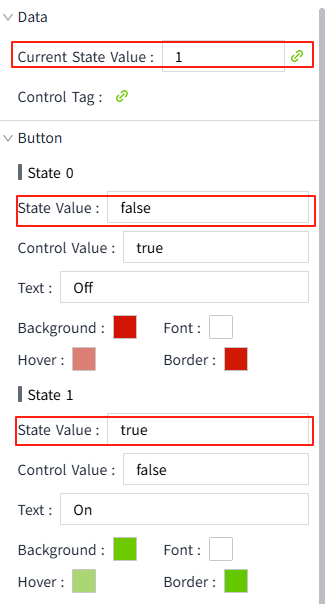
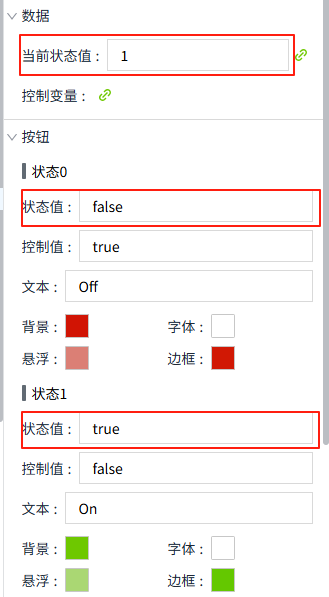
1

diff --git a/docs/2d-visualization/controls/button/2-state-button.md b/docs/2d-visualization/controls/button/2-state-button.md
@@ -1,45 +1,44 @@
 # 2-State Button
 
-The 2-State Button is a type of button control with two distinct states. Common states include on/off, start/stop, etc. Each state can be configured with its own appearance style (color, text, etc.). Users can clearly understand the current state by the appearance of the button.
+2-State Button 是一种带有两种明确状态的按钮控件，常见的状态是开/关、启动/停止等。可以为每个状态配置独立的外观样式（颜色、文字等），用户通过按钮的外观就能清晰地知道当前状态。
 
 ![alt text](33.png)
 
-**Properties**
+**属性**
 
-| **Name**  | **Description**  |
-|---------|-----------|
-| Name  | The name of this control.  |
-| X  | The distance between the left side of the control and the left side of the canvas. |
-| Y   | The distance between the top of the control and the top of the canvas. |
-| W  | The width of the control.  |
-| H  | The height of the control.  |
-| ![alt text](32.png) | The rounded corner curvature of the control.  |
-| Current State Value  | Match this value with the two status values under the "Button" category. Based on the matching result, display the appearance of the corresponding button. <br>![alt text](34.png) |
-| Control Value   | Bind to a property to control the state of the control. When the button is pressed, the control value corresponding to the current state will be written into the bound property. Usually, the current state value and the control value will be bound to the same property.    |
-| Button | Set the appearance style of the control when it is in different state values. It includes two states: State 0 and State 1.  <br>- **State Value**: Used in conjunction with "Data" -> "Current State Value". The current state value corresponds to which state value of the button, and then the appearance of that state is displayed. <br>- **Control value**: Used in conjunction with "Data" -> "Control Value". When the button is pressed in the current state, the corresponding control value will be written into the property bound to "Data" -> "Control Value". <br>- **Text**: The text content displayed by the control in the corresponding state. <br>- **Background**: The backhground color of the control in the corresponding state. <br>- **Font**: The font color of the control in the corresponding state. <br>- **Hover**: The hover color of the control in the corresponding state. <br>- **Border**: The border color of the control in the corresponding state. |
-| Border | Set the border width.  |
-|  | Set the font for text content. Including font type, font size, font color, bold, italic, underline, horizontal alignment, and vertical alignment.   |
+| **名称** | **描述** |
+|:----------|:----------------|
+| 名字  | 此控件的名称。 |
+| X  | 控件左侧距画布左侧的距离，单位px。|
+| Y  | 控件顶部距画布顶部的距离，单位px。   |
+| W   | 控件的宽度，单位px。 |
+| H  | 控件的高度，单位px。  |
+| ![alt text](32.png) | 控件的圆角曲率。   |
+| 当前状态值 | 将该值去和"按钮"分类下的2个状态值进行匹配，根据匹配到的结果，显示对应状态的按钮外观。  ![alt text](34.png)   |
+| 控制值   | 绑定到一个控制状态的属性。当按钮被按下时，当前状态对应的控制值会被写入绑定的属性中。通常情况下，当前状态值和控制值会绑定同一属性。  |
+| 按钮  | 设置控件在不同状态值时的外观样式。包含2个状态：状态0，状态1。  <br>**- 状态值**：和”数据“->“当前状态值”搭配使用。当前状态值等于按钮的哪个状态值，则显示该状态的外观。 <br>- **控制值**：和”数据“->“控制值”搭配使用。在当前状态下按下按钮时，会将对应的控制值写入到”数据“->“控制值”绑定的属性中。 <br>- **文本**：控件在对应状态下显示的文本内容。   <br>- **背景**：控件在对应状态下的背景色。  <br>- **字体**：控件在对应状态下的字体颜色。   <br>- **悬浮**：控件在对应状态下的悬浮色。  <br>- **边框**：控件在对应状态下的边框色。 |
+| 边框 | 设置控件的边框粗细。|
+| 字体| 设置文本内容的字体。包括字体型号、字体大小、粗体、倾斜、水平对齐方式、垂直对齐方式。|
 
-**Event**
+**动作**
 
-Allows you to perform specific events based on certain conditions. See the full description of each event on the **2D Visualization-> Event** page.
+允许您基于某种条件执行特定的动作。请参阅“[动作](../../event/index.md)”页上各种动作的完整描述。
 
-**Example**
+**示例**
 
-The fan can be turned on or off by using the 2-State button control.
+可通过 2-State button 控件开启或关闭风机。
 
-1. Add a 2-State button control to the page.
-2. The current state value is bound to a boolean tag: "Demo:status"
-3. The control value is also bound to the tag: "Demo:status"
-4. The button properties are as follows:
+1. 在画面上添加一个 2-State button 控件
+2. 当前状态值绑定到一个布尔型变量：“Demo:status”
+3. 控制值也绑定到变量：“Demo:status”
+4. 按钮属性如下：
 
-| **State**       | **Property** |
-|-----------------|------------------|
-| **State** **0** |  <br>- **State Value**: false <br>- **Control Value**: true <br>- **Text**: Off <br>- **Background**: d11404 <br>-**Font**: ffffff  <br>- **Hover**: db7f75  <br>- **Border**: d11804 |
-| **State** **1** |  <br>- **State Value**: true  <br>- **Control Value**: false  <br>- **Text**: On <br>- **Background**: 6ec800 <br>- **Font**:  ffffff  <br>- **Hover**: aad773 <br>- **Border**: 64c800 |
+    | **状态**  | **属性** |
+    |:-----------|:-------------|
+    | **状态0** |<br>- **状态值**：false <br>- **控制值**：true <br>- **文本**：Off  <br>- **背景**：d11404 <br>- **字体**：ffffff <br>- **悬浮**：db7f75 <br>- **边框**：d11804   |
+    | **状态1** |<br>- **状态值**：true     <br>- **控制值**：false    <br>- **文本**：On        <br>- **背景**：6ec800    <br>- **字体**：ffffff    <br>- **悬浮**：aad773  <br>- **边框**：64c800    |
 
-5.On the running page, click the button to start and stop the fan, and view the button style.
-    ![2-state-button](../../../assets/images/2-state-button.gif)
+5. 在运行页面点击按钮来启动和停止风机，查看按钮样式。
 
-
+    ![alt text](4.gif)
 
